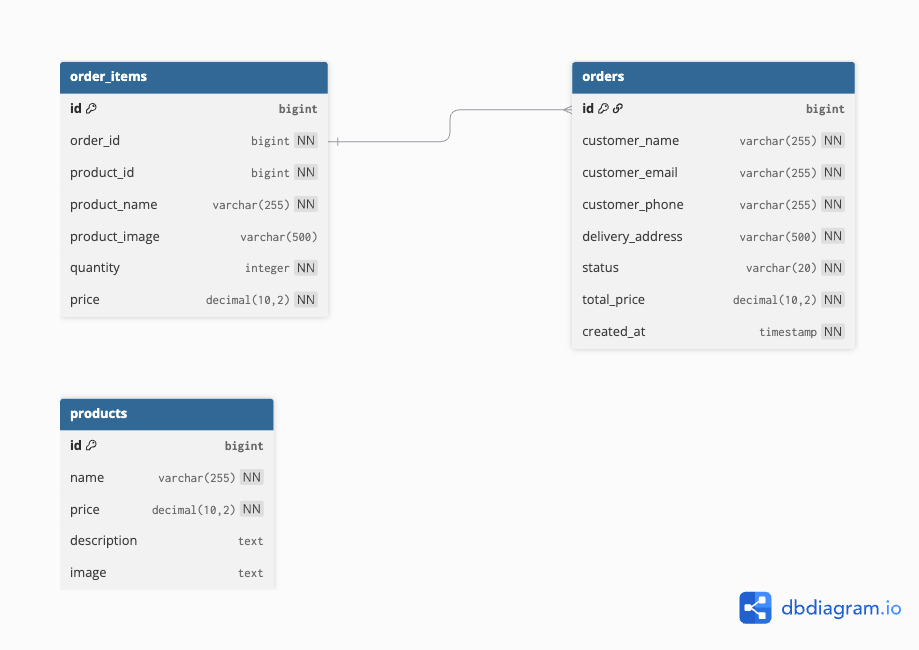
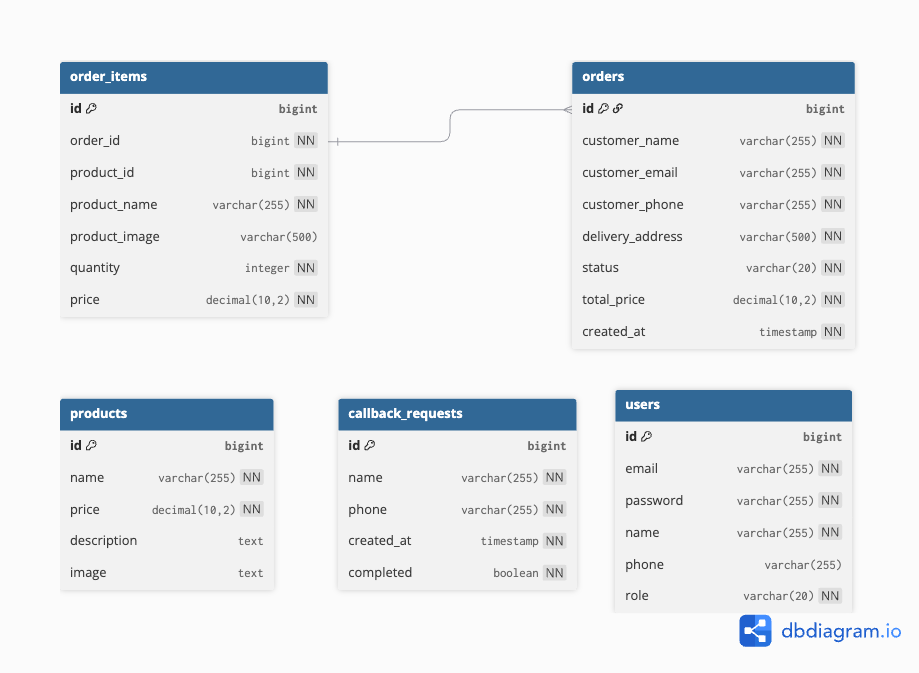
fix

diff --git a/website/backend/src/main/java/com/flowershop/service/AdminService.java b/website/backend/src/main/java/com/flowershop/service/AdminService.java
@@ -3,52 +3,36 @@ package com.flowershop.service;
 import com.flowershop.model.CallbackRequest;
 import com.flowershop.model.Order;
 import com.flowershop.model.User;
+import com.flowershop.repository.CallbackRequestRepository;
 import com.flowershop.repository.OrderRepository;
-import jakarta.annotation.PostConstruct;
+import com.flowershop.repository.UserRepository;
 import org.springframework.stereotype.Service;
 import org.springframework.transaction.annotation.Transactional;
 import org.slf4j.Logger;
 import org.slf4j.LoggerFactory;
 
-import java.time.LocalDateTime;
-import java.util.ArrayList;
 import java.util.List;
 import java.util.Optional;
-import java.util.concurrent.atomic.AtomicLong;
 
 @Service
 public class AdminService {
     private static final Logger logger = LoggerFactory.getLogger(AdminService.class);
     private final OrderRepository orderRepository;
-    private final List<User> adminUsers = new ArrayList<>();
-    private final List<CallbackRequest> callbackRequests = new ArrayList<>();
-    private final AtomicLong adminIdSequence = new AtomicLong(1);
-    private final AtomicLong callbackIdSequence = new AtomicLong(1);
+    private final UserRepository userRepository;
+    private final CallbackRequestRepository callbackRequestRepository;
 
-    public AdminService(OrderRepository orderRepository) {
+    public AdminService(OrderRepository orderRepository,
+                        UserRepository userRepository,
+                        CallbackRequestRepository callbackRequestRepository) {
         this.orderRepository = orderRepository;
-    }
-
-    @PostConstruct
-    public void initAdmins() {
-        if (adminUsers.isEmpty()) {
-            adminUsers.add(new User(
-                adminIdSequence.getAndIncrement(),
-                "admin@flowershop.ru",
-                "admin",
-                "Администратор",
-                "+7 (495) 123-45-67",
-                User.UserRole.ADMIN
-            ));
-        }
+        this.userRepository = userRepository;
+        this.callbackRequestRepository = callbackRequestRepository;
     }
 
     public Optional<User> authenticate(String email, String password) {
-        Optional<User> result = adminUsers.stream()
-                .filter(user -> user.getEmail().equals(email)
-                        && user.getPassword().equals(password)
-                        && user.getRole() == User.UserRole.ADMIN)
-                .findFirst();
+        Optional<User> result = userRepository.findByEmail(email)
+                .filter(user -> user.getPassword().equals(password)
+                        && user.getRole() == User.UserRole.ADMIN);
         if (result.isPresent()) {
             logger.info("Вход в админку: {}", email);
         } else {
@@ -58,33 +42,30 @@ public class AdminService {
     }
 
     public List<User> getAllAdmins() {
-        return adminUsers.stream()
+        return userRepository.findAll().stream()
                 .filter(user -> user.getRole() == User.UserRole.ADMIN)
                 .toList();
     }
 
     @Transactional
     public User createAdmin(String email, String password, String name, String phone) {
-        boolean exists = adminUsers.stream().anyMatch(user -> user.getEmail().equals(email));
-        if (exists) {
+        if (userRepository.existsByEmail(email)) {
             throw new RuntimeException("Пользователь с таким email уже существует");
         }
-        User admin = new User(adminIdSequence.getAndIncrement(), email, password, name, phone, User.UserRole.ADMIN);
-        adminUsers.add(admin);
+        User admin = new User(email, password, name, phone, User.UserRole.ADMIN);
+        User savedAdmin = userRepository.save(admin);
         logger.info("Создан администратор: {}", email);
-        return admin;
+        return savedAdmin;
     }
 
     @Transactional
     public void deleteAdmin(Long id) {
-        User admin = adminUsers.stream()
-                .filter(user -> user.getId().equals(id))
-                .findFirst()
+        User admin = userRepository.findById(id)
                 .orElseThrow(() -> new RuntimeException("Администратор не найден"));
         if (admin.getRole() != User.UserRole.ADMIN) {
             throw new RuntimeException("Пользователь не является администратором");
         }
-        adminUsers.remove(admin);
+        userRepository.delete(admin);
         logger.info("Удален администратор: {}", admin.getEmail());
     }
 
@@ -116,39 +97,28 @@ public class AdminService {
     }
 
     public List<CallbackRequest> getPendingCallbacks() {
-        return callbackRequests.stream()
-                .filter(request -> !request.isCompleted())
-                .toList();
+        return callbackRequestRepository.findByCompletedOrderByCreatedAtDesc(false);
     }
 
     public List<CallbackRequest> getCompletedCallbacks() {
-        return callbackRequests.stream()
-                .filter(CallbackRequest::isCompleted)
-                .toList();
+        return callbackRequestRepository.findByCompletedOrderByCreatedAtDesc(true);
     }
 
     @Transactional
     public CallbackRequest markCallbackCompleted(Long id) {
-        CallbackRequest request = callbackRequests.stream()
-                .filter(item -> item.getId().equals(id))
-                .findFirst()
+        CallbackRequest request = callbackRequestRepository.findById(id)
                 .orElseThrow(() -> new RuntimeException("Заявка не найдена"));
         request.setCompleted(true);
+        CallbackRequest savedRequest = callbackRequestRepository.save(request);
         logger.info("Заявка на звонок отмечена как выполненная: #{}", id);
-        return request;
+        return savedRequest;
     }
 
     @Transactional
     public CallbackRequest createCallback(String name, String phone) {
-        CallbackRequest request = new CallbackRequest(
-                callbackIdSequence.getAndIncrement(),
-                name,
-                phone,
-                LocalDateTime.now(),
-                false
-        );
-        callbackRequests.add(request);
-        logger.info("Создана заявка на звонок: имя={}, телефон={}, id={}", name, phone, request.getId());
-        return request;
+        CallbackRequest request = new CallbackRequest(name, phone);
+        CallbackRequest savedRequest = callbackRequestRepository.save(request);
+        logger.info("Создана заявка на звонок: имя={}, телефон={}, id={}", name, phone, savedRequest.getId());
+        return savedRequest;
     }
 }

diff --git a/website/database/src/main/java/com/flowershop/model/CallbackRequest.java b/website/database/src/main/java/com/flowershop/model/CallbackRequest.java
@@ -1,22 +1,41 @@
 package com.flowershop.model;
 
+import jakarta.persistence.*;
 import java.time.LocalDateTime;
 
+@Entity
+@Table(name = "callback_requests")
 public class CallbackRequest {
+    @Id
+    @GeneratedValue(strategy = GenerationType.IDENTITY)
     private Long id;
+
+    @Column(nullable = false)
     private String name;
+
+    @Column(nullable = false)
     private String phone;
+
+    @Column(nullable = false)
     private LocalDateTime createdAt;
+
+    @Column(nullable = false)
     private boolean completed;
 
     public CallbackRequest() {}
 
-    public CallbackRequest(Long id, String name, String phone, LocalDateTime createdAt, boolean completed) {
-        this.id = id;
+    public CallbackRequest(String name, String phone) {
         this.name = name;
         this.phone = phone;
-        this.createdAt = createdAt;
-        this.completed = completed;
+        this.createdAt = LocalDateTime.now();
+        this.completed = false;
+    }
+
+    @PrePersist
+    public void onCreate() {
+        if (createdAt == null) {
+            createdAt = LocalDateTime.now();
+        }
     }
 
     public Long getId() {

diff --git a/website/database/src/main/java/com/flowershop/model/User.java b/website/database/src/main/java/com/flowershop/model/User.java
@@ -1,17 +1,33 @@
 package com.flowershop.model;
 
+import jakarta.persistence.*;
+
+@Entity
+@Table(name = "users")
 public class User {
+    @Id
+    @GeneratedValue(strategy = GenerationType.IDENTITY)
     private Long id;
+
+    @Column(nullable = false, unique = true)
     private String email;
+
+    @Column(nullable = false)
     private String password;
+
+    @Column(nullable = false)
     private String name;
+
+    @Column
     private String phone;
+
+    @Enumerated(EnumType.STRING)
+    @Column(nullable = false)
     private UserRole role;
 
     public User() {}
 
-    public User(Long id, String email, String password, String name, String phone, UserRole role) {
-        this.id = id;
+    public User(String email, String password, String name, String phone, UserRole role) {
         this.email = email;
         this.password = password;
         this.name = name;
@@ -68,6 +84,6 @@ public class User {
     }
 
     public enum UserRole {
-        CLIENT, ADMIN
+        ADMIN
     }
 }

diff --git a/website/database/src/main/java/com/flowershop/repository/CallbackRequestRepository.java b/website/database/src/main/java/com/flowershop/repository/CallbackRequestRepository.java
@@ -1,0 +1,12 @@
+package com.flowershop.repository;
+
+import com.flowershop.model.CallbackRequest;
+import org.springframework.data.jpa.repository.JpaRepository;
+import org.springframework.stereotype.Repository;
+
+import java.util.List;
+
+@Repository
+public interface CallbackRequestRepository extends JpaRepository<CallbackRequest, Long> {
+    List<CallbackRequest> findByCompletedOrderByCreatedAtDesc(boolean completed);
+}

diff --git a/website/database/src/main/java/com/flowershop/repository/UserRepository.java b/website/database/src/main/java/com/flowershop/repository/UserRepository.java
@@ -1,0 +1,13 @@
+package com.flowershop.repository;
+
+import com.flowershop.model.User;
+import org.springframework.data.jpa.repository.JpaRepository;
+import org.springframework.stereotype.Repository;
+
+import java.util.Optional;
+
+@Repository
+public interface UserRepository extends JpaRepository<User, Long> {
+    Optional<User> findByEmail(String email);
+    boolean existsByEmail(String email);
+}

diff --git a/website/backend/README.md b/website/backend/README.md
@@ -13,8 +13,8 @@
 ### Конечные точки
 - `GET /api/products`, `GET /api/products/{id}` — каталог (из БД).
 - `POST /api/orders`, `GET /api/orders` — заказы (в базе).
-- `POST /api/callback` — заявка на звонок (в памяти).
-- Админ: логин, заказы, заявки, управление товарами.
+- `POST /api/callback` — заявка на звонок (в БД).
+- Админ: логин, заказы, заявки, управление товарами (в БД).
 
 ### Логи и метрики
 - Логи в `website/logs/flowershop.log` (заказы клиентов, заявки на звонок, действия админа).
